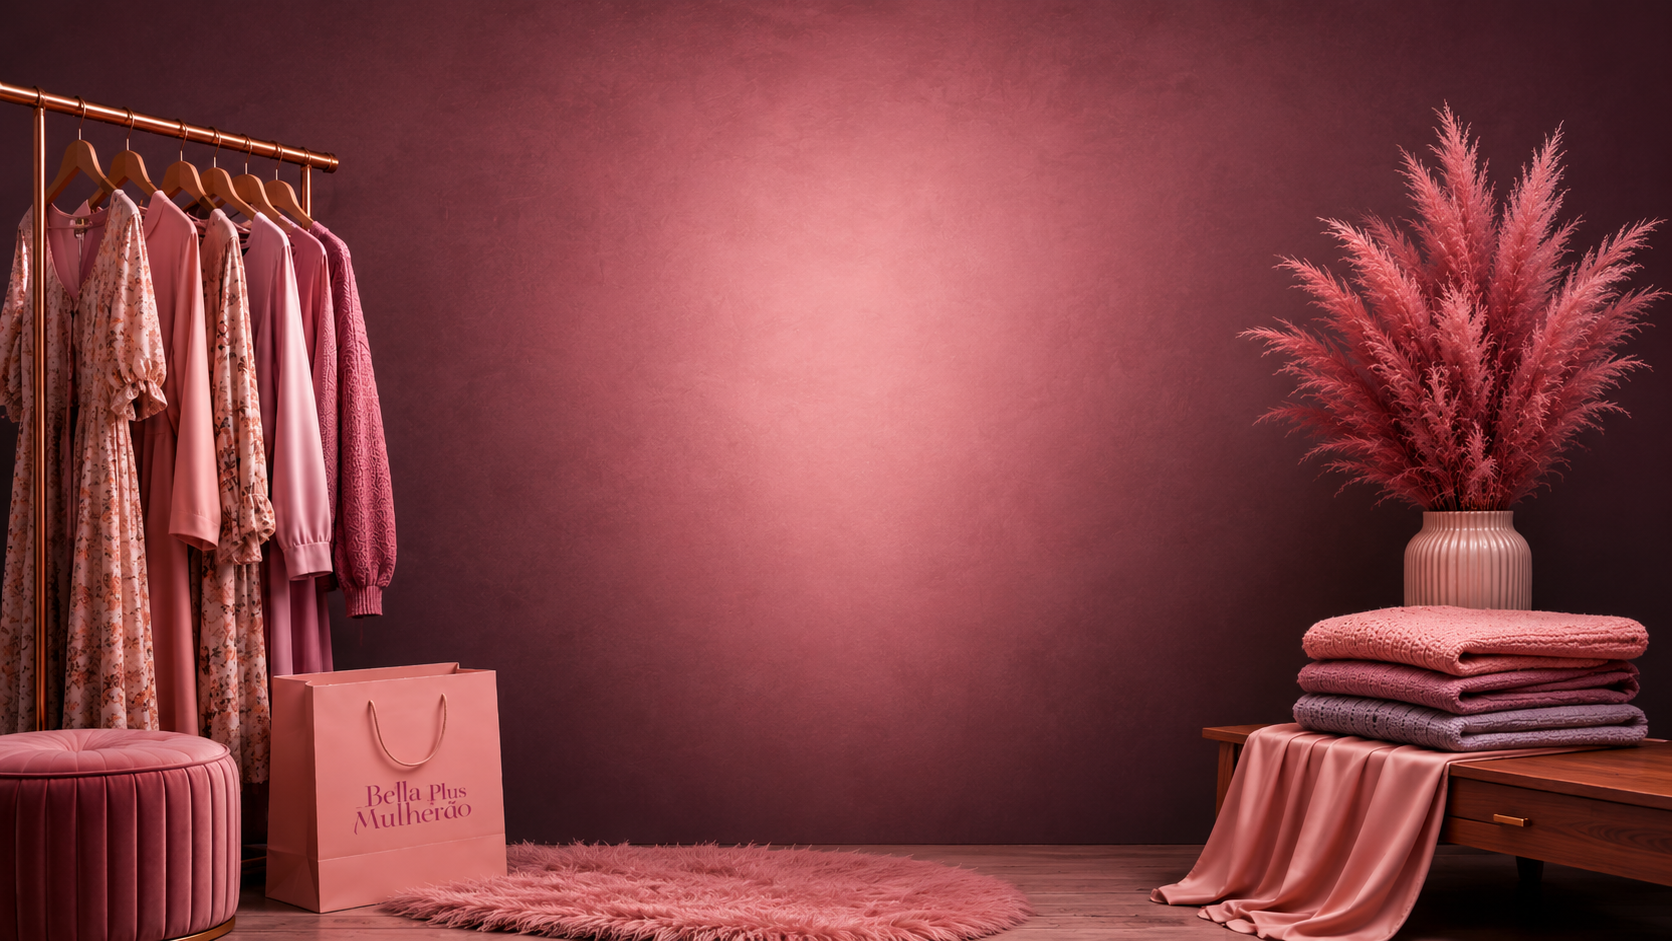
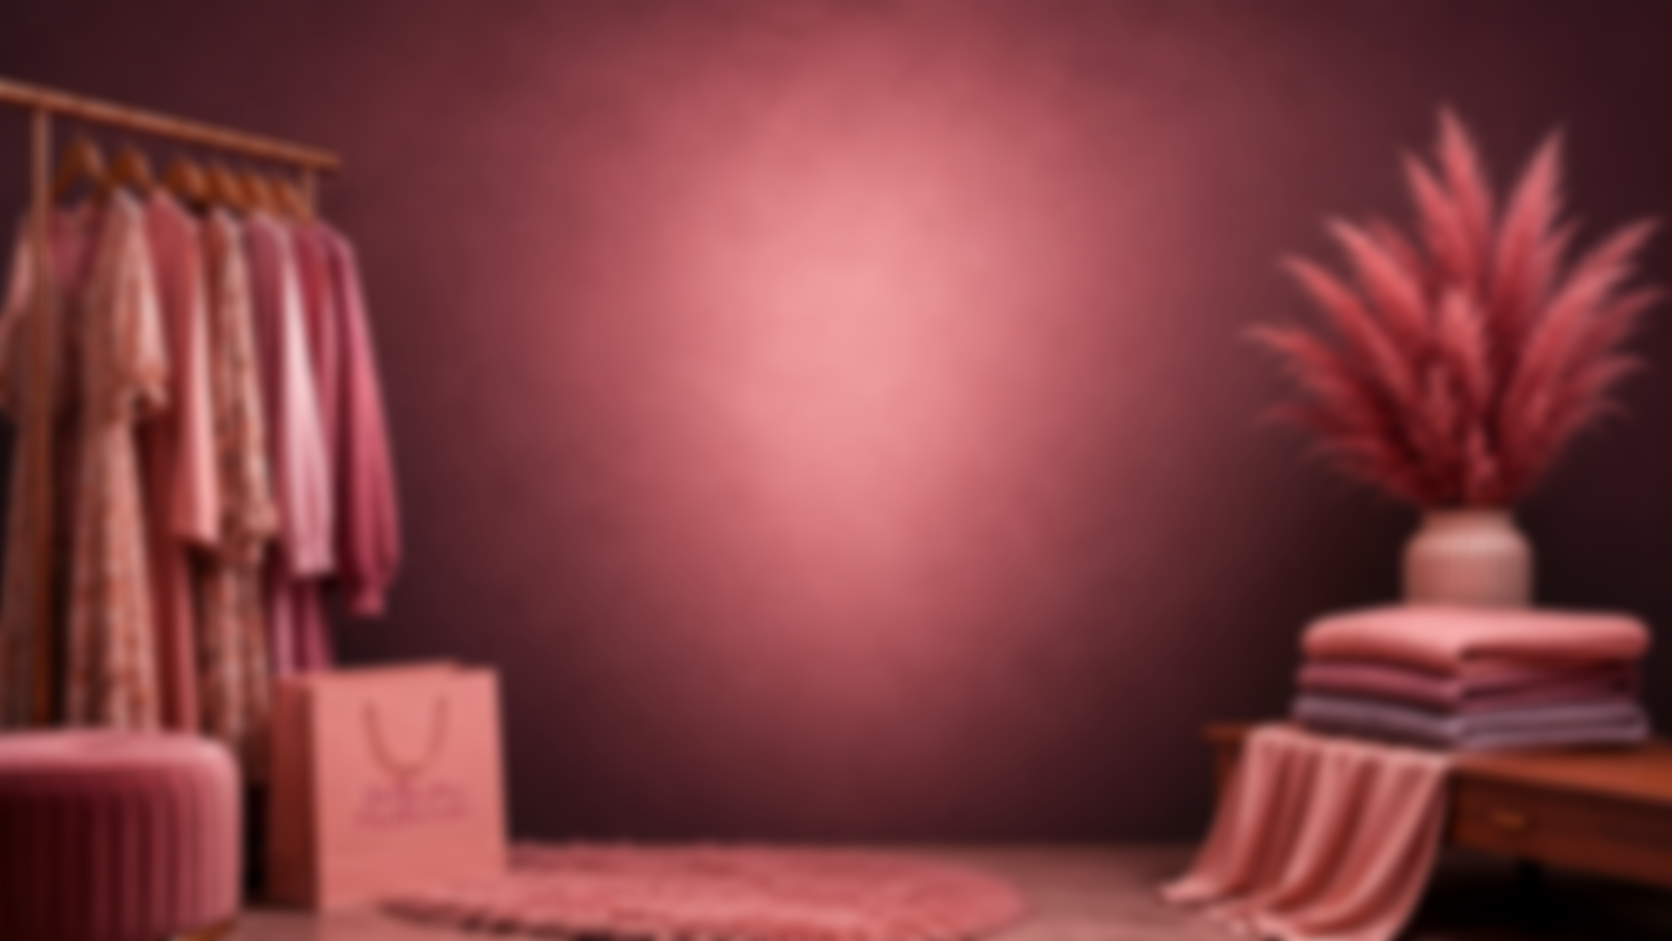
atualizacoes

Changed region(s): [[0.0, 0.0616, 0.622, 1.0], [0.6842, 0.1233, 1.0, 1.0], [0.9952, 0.9245, 1.0, 0.9554]]

diff --git a/Screens/Login.js b/Screens/Login.js
@@ -1,5 +1,5 @@
 import {TextInput,Text,StyleSheet,Alert,ImageBackground,View,TouchableOpacity,Linking, Image, useWindowDimensions} from "react-native";
-
+import { BlurView } from 'expo-blur';
 import { Button } from "react-native-paper";
 import { useState } from "react";
 import { auth } from "../firebaseConfig";
@@ -60,13 +60,16 @@ export default function Login({ navigation }) {
 
 
   return (
- <ImageBackground source={imagemFundo} style={styles.fundo} resizeMode='stretch'>
+ <ImageBackground source={imagemFundo} style={styles.fundo} resizeMode='cover'>
+
+
   <View style={styles.overlay}>
 
     <View style={styles.logoContainer}>
-    <Image style={{
-    width: width < 600 ? width * 0.90 : width * 0.55,
-    height: height < 600 ? 160 : 220,resizeMode:'contain'}} source={require('../Images/logo.png')} />
+   <Image style={{
+    width: width < 600 ? width * 1.05 : width * 1.05,
+    height: width < 600 ? 180 : 220,
+    resizeMode: 'contain'}} source={require('../Images/logo.png')} />
     </View>
     <TextInput style={styles.barra} placeholder='Usuario' value={email}onChangeText={setEmail} />
 
@@ -87,7 +90,7 @@ export default function Login({ navigation }) {
   
 
 
-  <TouchableOpacity  onPress={() => navigation.navigate('cadastrar')}>
+  <TouchableOpacity  onPress={() => navigation.navigate('Cadastrar')}>
     <Text style={styles.textoConta}>Não possui uma conta ainda?<Text style={styles.cadastro}> Cadastre-se</Text></Text>
   </TouchableOpacity>
 
@@ -101,8 +104,6 @@ export default function Login({ navigation }) {
   </View>
 
   </View>
-
-  
 </ImageBackground>
   );
 }
@@ -110,7 +111,7 @@ export default function Login({ navigation }) {
 const styles = StyleSheet.create({
 
   barra: {
-    width: '80%',
+  width: '80%',
   maxWidth: 350,
   padding:12,
   borderRadius:12,
@@ -121,9 +122,13 @@ const styles = StyleSheet.create({
   color:'#333',
   },
 logoContainer:{
-  justifyContent:'center',
+   justifyContent:'center',
   alignItems:'center',
-  marginBottom:20,
+  marginBottom:0,
+  marginTop:-20,
+},
+blur:{
+  flex:1,
 },
   button: {
     margin: 10,
@@ -156,11 +161,12 @@ logoContainer:{
   },
 
   overlay: {
-    flex: 1,
-    width: '100%',
-    justifyContent: 'center',
-    alignItems: 'center',
-    backgroundColor: 'rgba(0,0,0,0.35)',
+  flex: 1,
+  width: '100%',
+  justifyContent: 'center',
+  alignItems: 'center',
+  paddingBottom: 40,
+  backgroundColor: 'rgba(0,0,0,0.35)',
   },
 
   textoConta: {

diff --git a/App.js b/App.js
@@ -54,27 +54,33 @@ export default function App() {
       <NavigationContainer>
         <Stack.Navigator>
 
+
+
           <Stack.Screen name="Login" component={Login} options={{
             headerShown: false
           }} />
-          <Stack.Screen name="cadastrar" component={Cadastrar} options={{
-            headerShown: false
-          }} />
+          
+          <Stack.Screen name="Cadastrar" component={Cadastrar} options={{
+          title: "Cadastrar",
+          headerTransparent: true,
+          headerStyle: {
+          backgroundColor: "transparent",
+          },
+          headerTintColor: "#fff",
+          headerTitleStyle: {
+          color: "#fff", },}}/>
+
+
           <Stack.Screen name="ADM" component={ADM} options={{
             headerShown: false
           }} />
 
           <Stack.Screen
             name="GerenciarProduto"
-            component={GerenciarProduto}
-            options={{
+            component={GerenciarProduto} options={{
               title: 'Gerenciar Produto',
               headerStyle: {
-                backgroundColor: '#290814',
-              },
-              headerTintColor: '#8b3151',
-            }}
-          />
+                backgroundColor: '#290814',},headerTintColor: '#8b3151',}}/>
 
           <Stack.Screen name="AddProdutos" component={AddProdutos} options={{
             headerShown: false

diff --git a/components/ProductModal.js b/components/ProductModal.js
@@ -146,14 +146,14 @@ const styles = StyleSheet.create({
 
   actionButton: {
     flex: 1,
-    backgroundColor: "#8b3151",
+    backgroundColor: "#e58aaa",
     padding: 14,
     borderRadius: 30,
     alignItems: "center",
   },
 
   actionButtonActive: {
-    backgroundColor: "#e58aaa",
+    backgroundColor: "#8b3151",
   },
 
   actionButtonText: {
@@ -163,7 +163,7 @@ const styles = StyleSheet.create({
   },
 
   closeButton: {
-    backgroundColor: "#e58aaa",
+    backgroundColor: "#b34a6fff",
     padding: 16,
     borderRadius: 30,
     marginTop: 20,

diff --git a/Screens/Cadastrar.js b/Screens/Cadastrar.js
@@ -125,10 +125,11 @@ const styles = StyleSheet.create({
   },
   overlay:{
     flex:1,
-    width:"100%",
-    justifyContent:"center",
-    alignItems:"center",
-    backgroundColor:"rgba(0,0,0,0.35)",
+  width:"100%",
+  justifyContent:"center",
+  alignItems:"center",
+  paddingBottom:60,
+  backgroundColor:"rgba(0,0,0,0.35)",
   },
   logoContainer:{
     justifyContent:"center",
